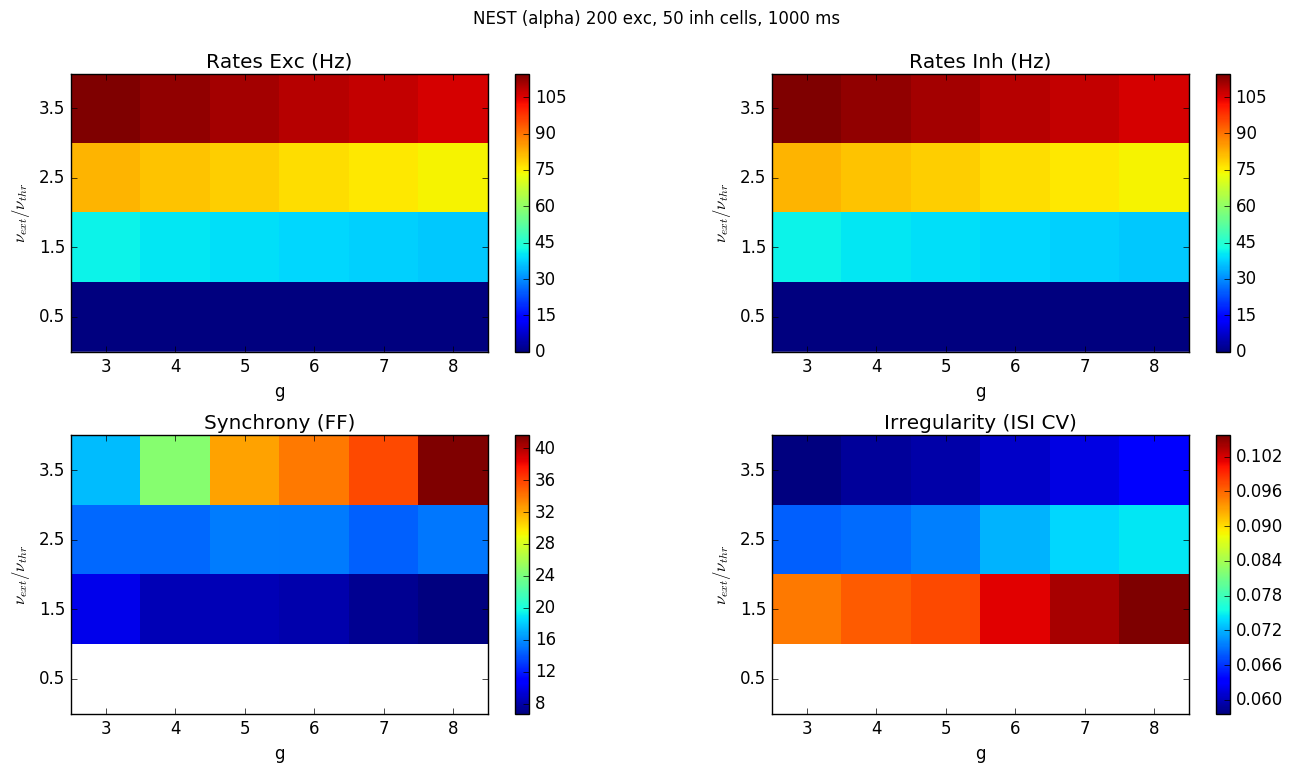
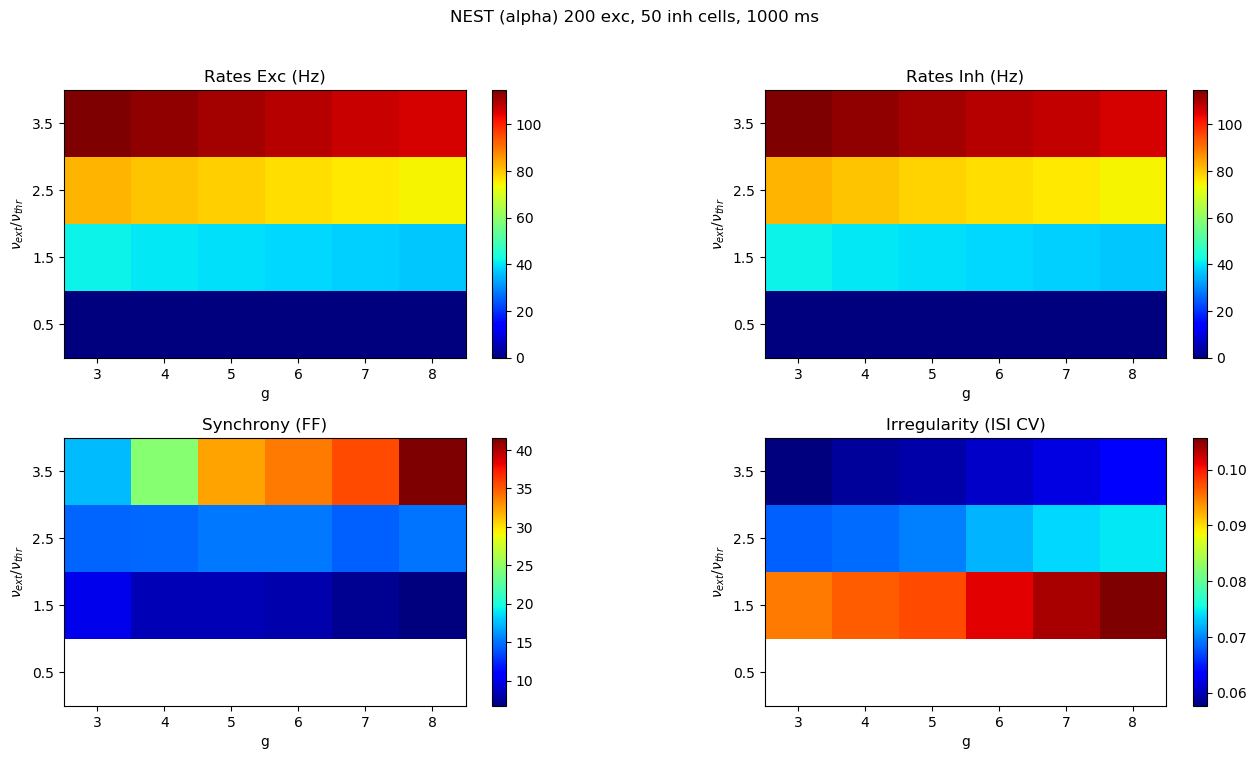
More tests

diff --git a/NEST/paramSweep.py b/NEST/paramSweep.py
@@ -177,6 +177,7 @@ def runParameterSweep(runBrunelNetwork, label, simtime = 1000.0, order = 2500, s
         pl.colorbar()
 
     fig = pl.figure(figsize=(16,8))
+    pl.jet()
     info = "%s (%s) %i exc, %i inh cells, %s ms"%(simulator_name.upper(),label,NE, N-NE, simtime)
     
     fig.canvas.set_window_title(info)
@@ -199,25 +200,39 @@ def runParameterSweep(runBrunelNetwork, label, simtime = 1000.0, order = 2500, s
     
 if __name__ == '__main__':
     
-    simtime = 1000.0
-    order = 500
-    
+    if '-nestsmall' in sys.argv:
+        
+        from brunel_alpha_nest import runBrunelNetwork as runBrunelNetworkAlpha
+        
+        runParameterSweep(runBrunelNetworkAlpha, "alpha", simtime=1000, order=50, quick=True)
+        
+    elif '-pynnnestsmall' in sys.argv:
+        
+        sys.path.append("../PyNN")
+        from brunel08 import runBrunelNetwork as runBrunelNetworkPyNN
+        
+        runParameterSweep(runBrunelNetworkPyNN, "pynn_nest", simtime=1000, order=10, simulator_name='nest', quick=True)
+        
+    else:
+        simtime = 1000.0
+        order = 500
 
-    from brunel_delta_nest import runBrunelNetwork as runBrunelNetworkDelta
-    from brunel_alpha_nest import runBrunelNetwork as runBrunelNetworkAlpha
-    
-    sys.path.append("../PyNN")
-    from brunel08 import runBrunelNetwork as runBrunelNetworkPyNN
-    
-    #runParameterSweep(runBrunelNetworkDelta, "delta", simtime=1000, order=500, quick=False)
-    #runParameterSweep(runBrunelNetworkDelta, "delta", simtime=simtime, order=order)
-    runParameterSweep(runBrunelNetworkAlpha, "alpha", simtime=1000, order=50, quick=True)
-    #runParameterSweep(runBrunelNetworkPyNN, "pynn_nest", simtime=100, order=10, simulator_name='nest', quick=True)
-    #runParameterSweep(runBrunelNetworkPyNN, "pynn_brian", simtime=1000, order=50, simulator_name='brian', quick=True)
-    
-    # Exponentially increasing sim time issue!! 
-    #runParameterSweep(runBrunelNetworkPyNN, "pynn_neuron", simtime=1000, order=50, simulator_name='neuron', quick=True)
-    
-    #runParameterSweep(runBrunelNetworkPyNN, "pynn_nest", simtime=1000, order=50, simulator_name='nest', quick=True)
-    #runParameterSweep(runBrunelNetworkPyNN, "pynn_neuroml", simtime=1000, order=50, simulator_name='neuroml', jnml_simulator='jNeuroML', quick=True)
-    #runParameterSweep(runBrunelNetworkPyNN, "pynn_neuroml", simtime=1000, order=50, simulator_name='neuroml', jnml_simulator='jNeuroML_NEURON', quick=True)
+
+        from brunel_delta_nest import runBrunelNetwork as runBrunelNetworkDelta
+        from brunel_alpha_nest import runBrunelNetwork as runBrunelNetworkAlpha
+
+        sys.path.append("../PyNN")
+        from brunel08 import runBrunelNetwork as runBrunelNetworkPyNN
+
+        #runParameterSweep(runBrunelNetworkDelta, "delta", simtime=1000, order=500, quick=False)
+        #runParameterSweep(runBrunelNetworkDelta, "delta", simtime=simtime, order=order)
+        runParameterSweep(runBrunelNetworkAlpha, "alpha", simtime=1000, order=50, quick=True)
+        #runParameterSweep(runBrunelNetworkPyNN, "pynn_nest", simtime=100, order=10, simulator_name='nest', quick=True)
+        #runParameterSweep(runBrunelNetworkPyNN, "pynn_brian", simtime=1000, order=50, simulator_name='brian', quick=True)
+
+        # Exponentially increasing sim time issue!! 
+        #runParameterSweep(runBrunelNetworkPyNN, "pynn_neuron", simtime=1000, order=50, simulator_name='neuron', quick=True)
+
+        #runParameterSweep(runBrunelNetworkPyNN, "pynn_nest", simtime=1000, order=50, simulator_name='nest', quick=True)
+        #runParameterSweep(runBrunelNetworkPyNN, "pynn_neuroml", simtime=1000, order=50, simulator_name='neuroml', jnml_simulator='jNeuroML', quick=True)
+        #runParameterSweep(runBrunelNetworkPyNN, "pynn_neuroml", simtime=1000, order=50, simulator_name='neuroml', jnml_simulator='jNeuroML_NEURON', quick=True)
